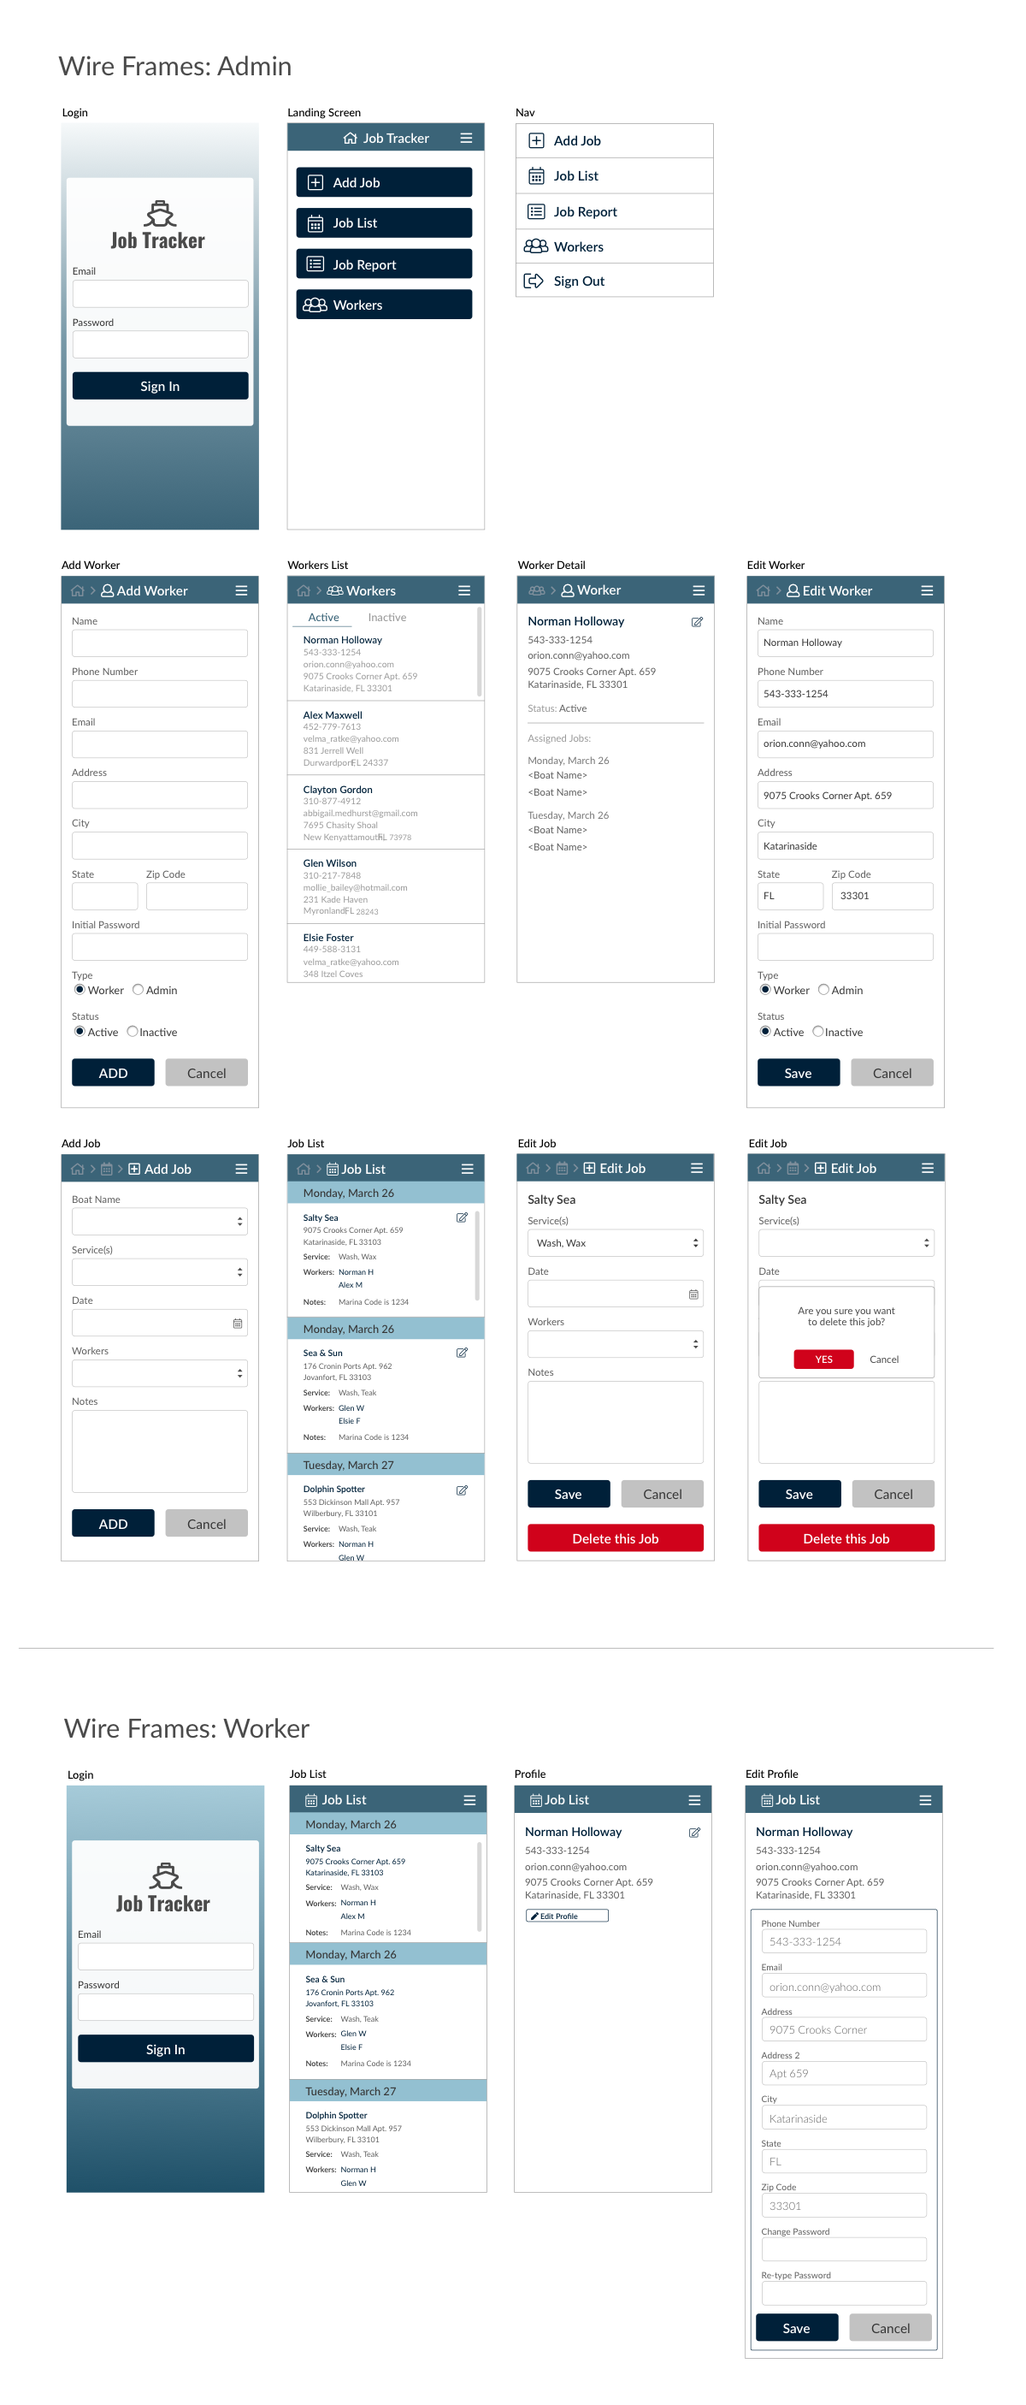
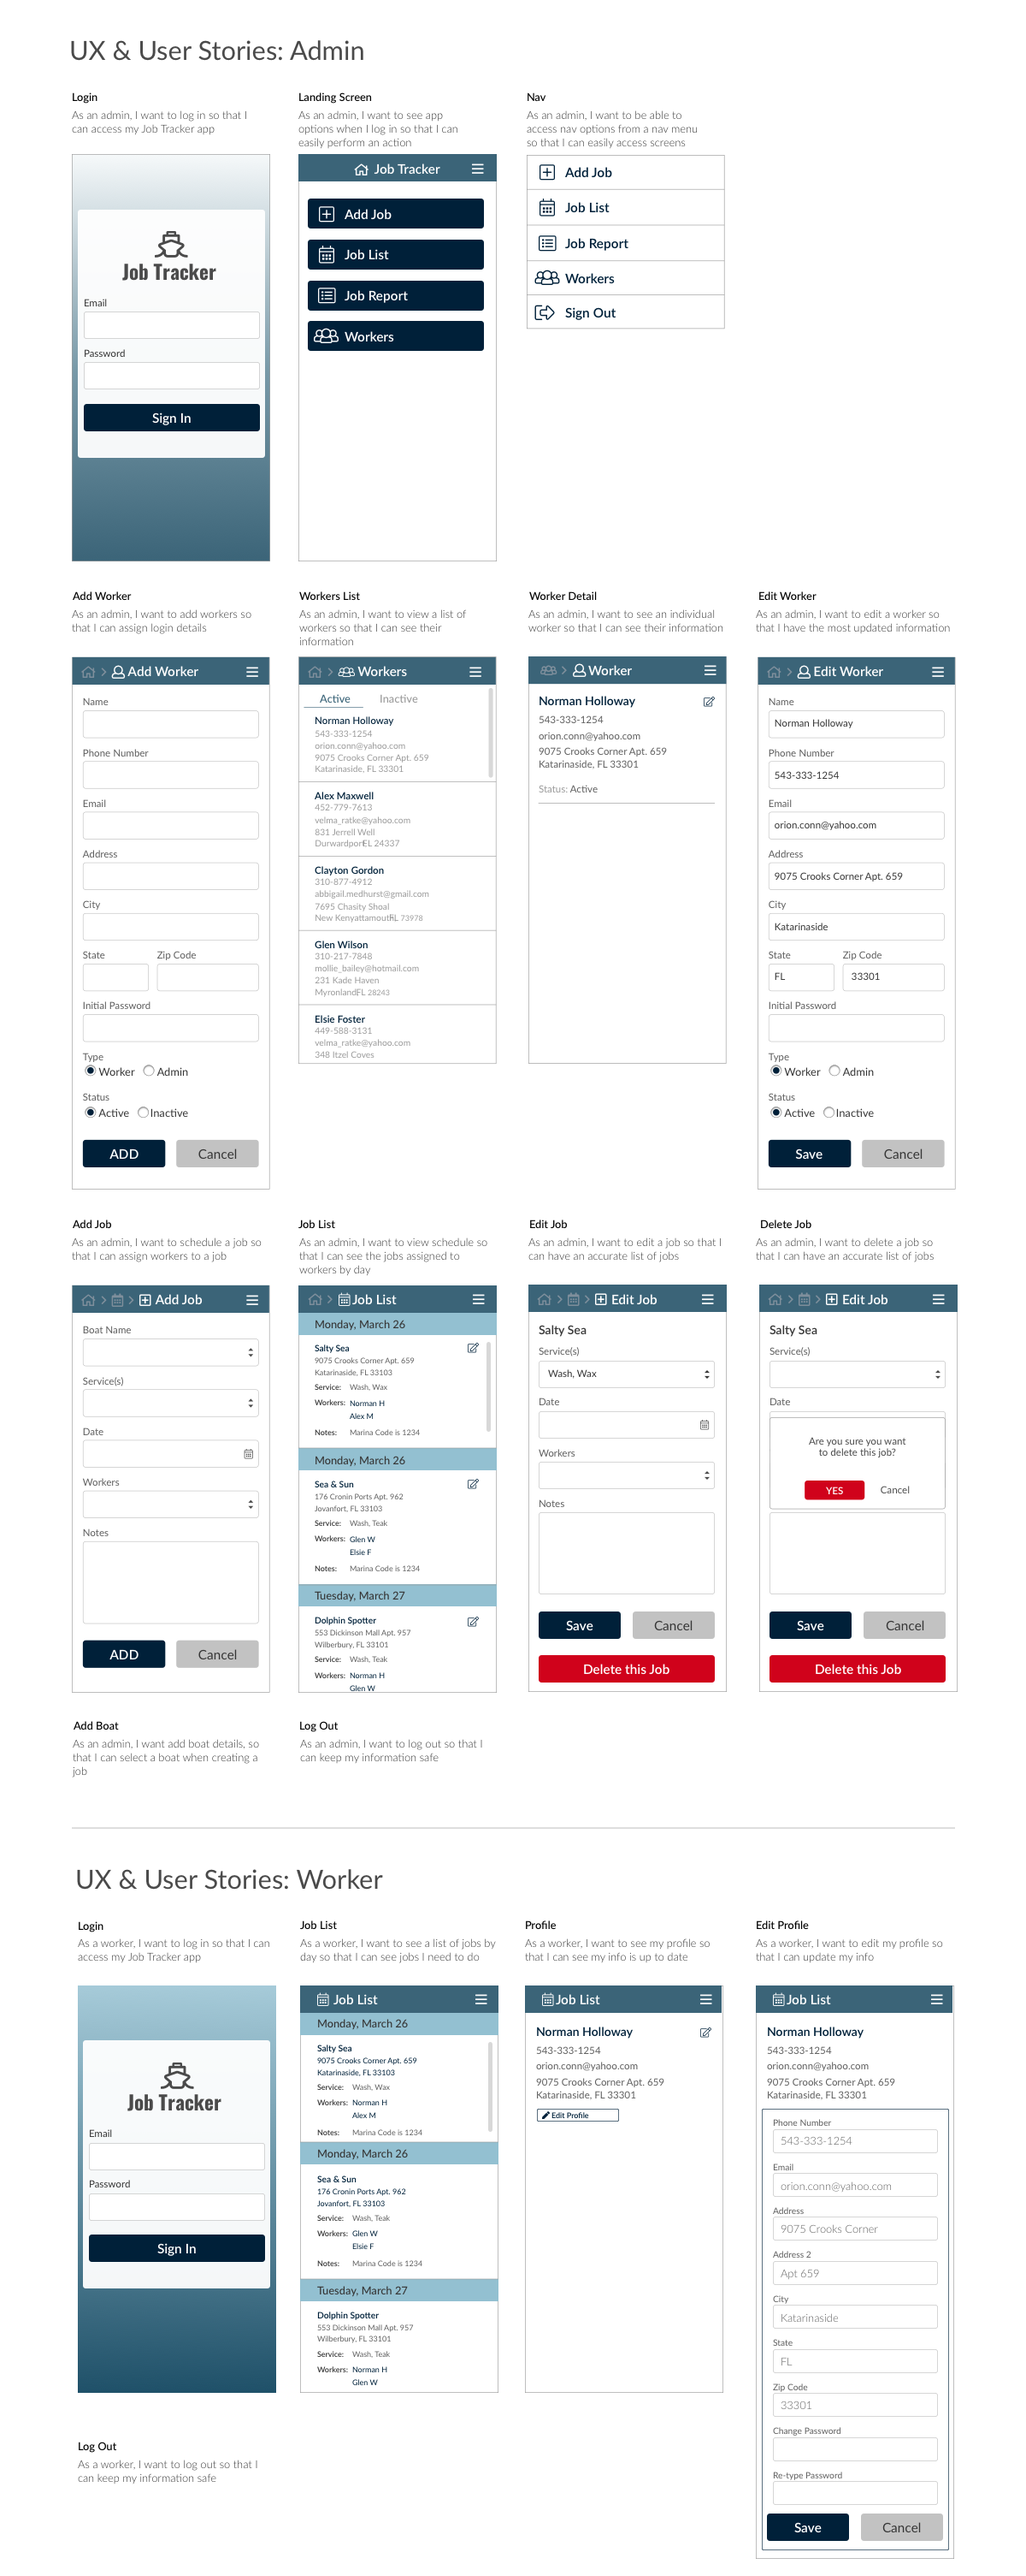
Update ux and user stories for README.md

Changed region(s): [[0.0617, 0.0, 0.9558, 0.6809], [0.0617, 0.7118, 0.925, 0.9904], [0.1542, 0.3404, 0.185, 0.3714]]

diff --git a/README.md b/README.md
@@ -9,27 +9,6 @@
 Can be viewed here: [Job Tracker](https://job-tracker-node-capstone.herokuapp.com/)
 
 
-## User Stories: MVP
-
-* As an admin, I want to log in so that I can access my Job Tracker app
-* As an admin, I want to add workers so that I can assign login details
-* As an admin, I want to see a list of workers so that I can view worker information
-* As an admin, I want to edit a worker so that I can have the most updated information
-* As an admin, I want to see an indiviidual worker so that I can see their information  
-* As an admin, I want to edit worker details so that worker information is up to date
-* As an admin, I want to add boat details, so that I can select a boat when creating a job
-* As an admin, I want to schedule a job so that I can assign workers to a job
-* As an admin, I want to view schedule so that I can see the jobs assigned to workers by day
-* As an admin, I want to delete a job so that I can have an accurate list of jobs
-* As an admin, I want to edit a job so that I can have an accurate list of jobs
-* As an admin, I want to log out so that I can keep my information safe
-
-* As a worker, I want to log in so that I can access my Job Tracker app
-* As a worker, I want to see a list of jobs by day so that I can see jobs I need to do
-* As a worker, I want to see my profile so that I can see my info is up to date
-* As a worker, I want to edit my profile so that I can update my info
-* As a worker, I want to log out so that I can keep my information safe
-
 ## Screenshots: MVP
 
 ![Admin Screenshots](/screenshots/screenshots-admin.png)
@@ -42,7 +21,7 @@ Can be viewed here: [Job Tracker](https://job-tracker-node-capstone.herokuapp.co
 
 ![User Flow Image](/screenshots/mvp-user-flow.png)
 
-## Wireframes: MVP
+## UX & User Stories: MVP
 
 ![Wireframes Image](/screenshots/mvp-wireframes.png)
 
@@ -50,14 +29,20 @@ Can be viewed here: [Job Tracker](https://job-tracker-node-capstone.herokuapp.co
 
 Job Tracker was built with: 
 
-Front End | Back End
---------- | ---------
-HTML5 | Node.js
-CSS3 | Express.js
-JavaScript | MongoDB
-jQuery | Mongoose
- | mLab database
- | Mocha and Chai for testing
+#### Front End
+
+* HTML5
+* CSS3
+* JavaScript 
+* jQuery 
+
+#### Back End 
+* Node.js 
+* Express.js
+* MongoDB
+* Mongoose
+* mLab database
+* Mocha and Chai for testing
 
 
 ### Responsive
